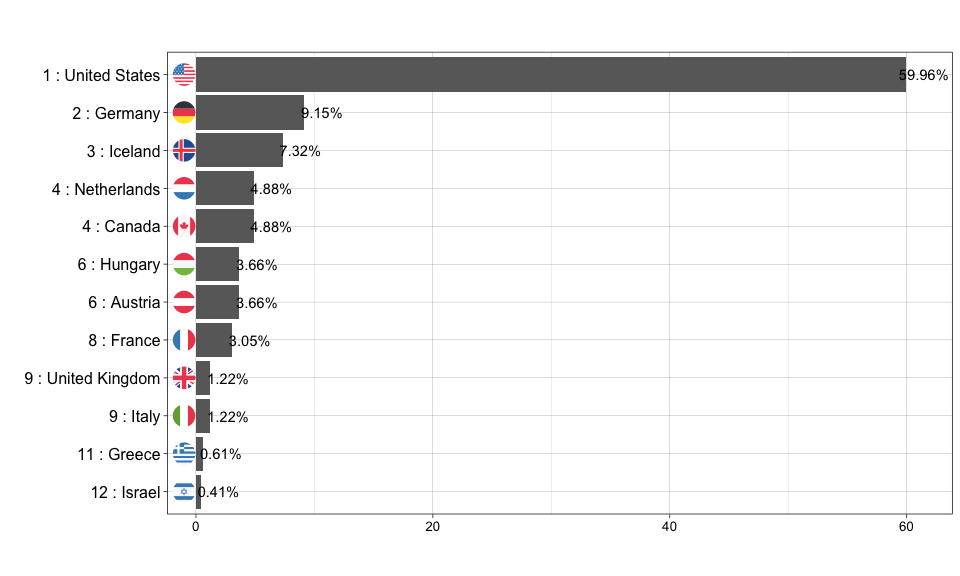
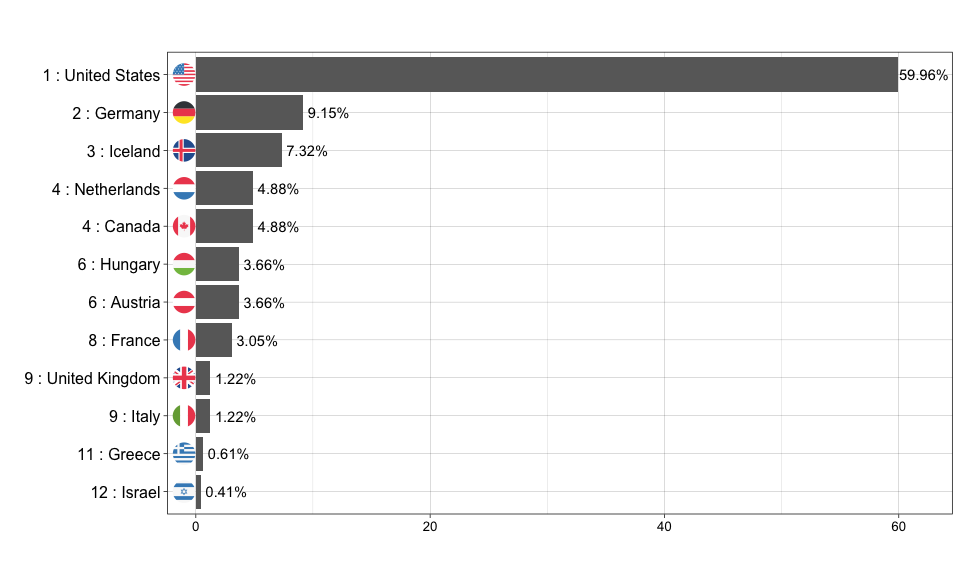
fixing image at md

diff --git a/R/affiliation_example.md b/R/affiliation_example.md
@@ -259,7 +259,7 @@ freq_tbl2 %>%
   theme_linedraw() +
   geom_flag(y = -1, aes(country = tolower(ISO2)), size = 7) +
   scale_y_continuous(expand = c(0.02, 1.2)) +
-  geom_text(aes(reorder(Country_Rank, prop_country), prop_country + 1.5, label = paste0(sprintf("%2.2f", prop_country), "%")), 
+  geom_text(aes(reorder(Country_Rank, prop_country), prop_country + 2.2, label = paste0(sprintf("%2.2f", prop_country), "%")), 
             position = position_dodge(width = 1)) + 
   coord_flip() +
   theme(axis.text.x= element_text(colour = "black",  size = 10),
